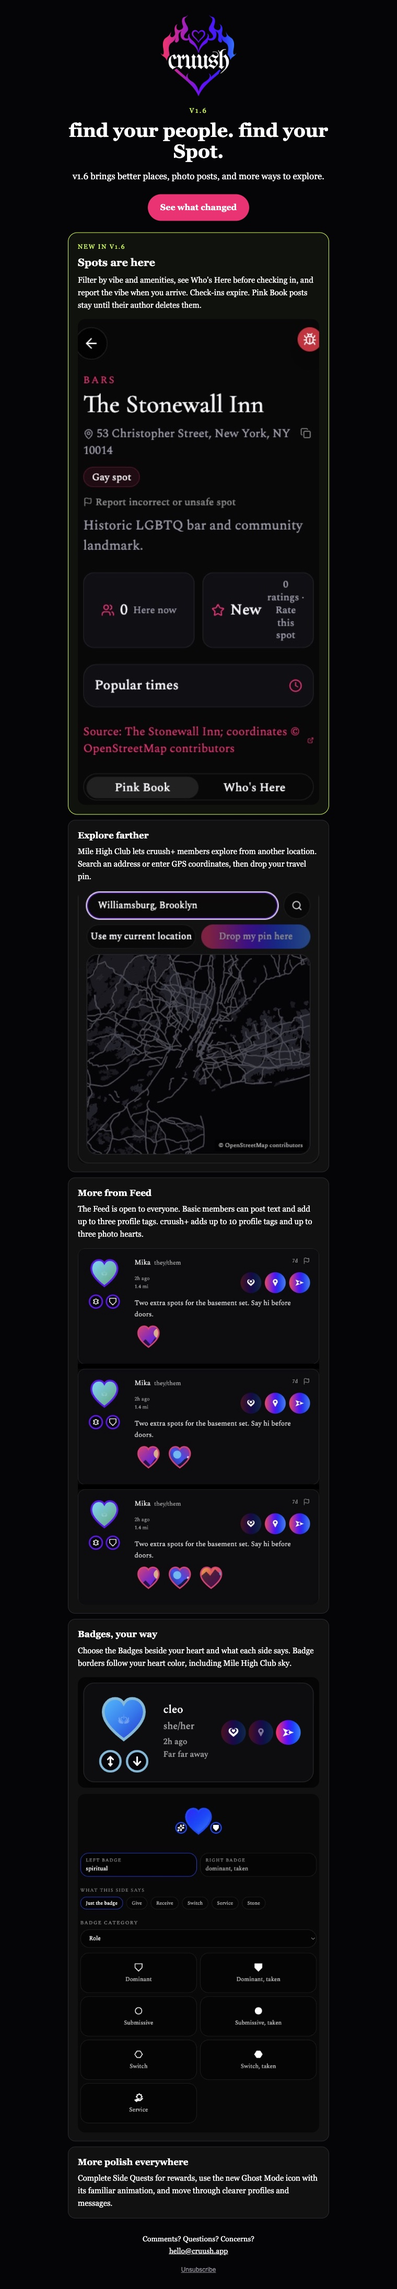
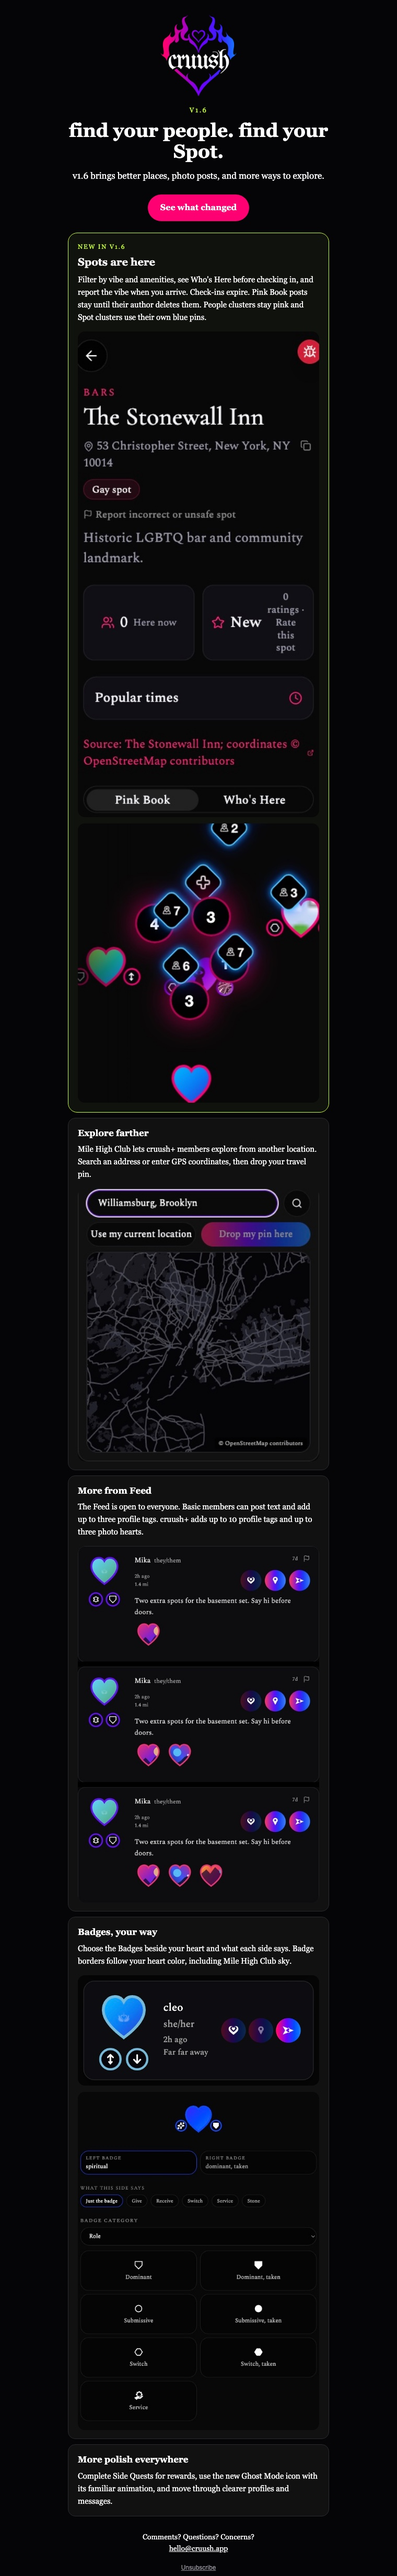
fix: clarify onboarding validation

Changed region(s): [[0.1816, 0.0, 0.8171, 1.0]]

diff --git a/src/app/components/ProfileOnboarding.tsx b/src/app/components/ProfileOnboarding.tsx
@@ -7,6 +7,8 @@ import { Input } from './ui/input';
 import { acceptCodeOfConduct, getAuthSession, type AuthSessionPayload } from '../lib/authApi';
 import { CODE_OF_CONDUCT_ITEMS } from '../lib/codeOfConduct';
 import { saveMyProfile, toDefaultKinkInterest, type ProfilePayload, uploadProfilePhoto } from '../lib/profileApi';
+import { ApiClientError } from '../lib/apiClient';
+import { SIGNAL_MAX_LENGTH } from '../lib/profileLimits';
 import {
   completeTwoFactorSetup,
   getRewardSummary,
@@ -117,6 +119,39 @@ function limitToThree(values: string[]) {
   }
 
   return nextValues.slice(-3);
+}
+
+const ONBOARDING_FIELD_LABELS: Record<string, string> = {
+  display_name: 'Display name',
+  photos: 'Profile photo',
+  bio: 'Bio',
+  signal: 'Signal',
+  pronouns: 'Pronouns',
+  identities: 'Identities',
+  crowds: 'Crowds',
+  looking_for: 'Looking for',
+  vibes: 'Vibes',
+};
+
+function getOnboardingSaveError(error: unknown) {
+  if (error instanceof ApiClientError && error.code === 'VALIDATION_ERROR') {
+    const fieldErrors = (error.details as { fieldErrors?: Record<string, unknown> } | null)?.fieldErrors;
+    const firstInvalidField = fieldErrors
+      ? Object.entries(fieldErrors).find(([, messages]) => Array.isArray(messages) && messages.length > 0)
+      : null;
+
+    if (firstInvalidField) {
+      const [field] = firstInvalidField;
+      if (field === 'signal') {
+        return `Signal must be ${SIGNAL_MAX_LENGTH} characters or fewer.`;
+      }
+
+      const label = ONBOARDING_FIELD_LABELS[field] ?? field.replaceAll('_', ' ');
+      return `${label.charAt(0).toUpperCase()}${label.slice(1)} needs attention before your profile can be saved.`;
+    }
+  }
+
+  return error instanceof Error ? error.message : 'Failed to save profile.';
 }
 
 type OnboardingProfileState = {
@@ -508,7 +543,7 @@ export default function ProfileOnboarding({
       onComplete(nextSession, destination);
     } catch (error) {
       console.error('Error saving profile:', error);
-      setSaveError(error instanceof Error ? error.message : 'Failed to save profile.');
+      setSaveError(getOnboardingSaveError(error));
     } finally {
       setSaving(false);
     }
@@ -704,12 +739,12 @@ export default function ProfileOnboarding({
                   <label className="mt-4 text-sm mb-2 block">Signal</label>
                   <Input
                     type="text"
-                    maxLength={180}
+                    maxLength={SIGNAL_MAX_LENGTH}
                     placeholder="A few words people see when they hover your heart pin"
                     value={profile.signal}
                     onChange={e => setProfileField('signal', e.target.value)}
                   />
-                  <p className="mt-2 text-xs text-white/50">Your signal appears when someone hovers over your heart pin on the map.</p>
+                  <p className="mt-2 text-xs text-white/50">Your signal appears when someone hovers over your heart pin on the map. {SIGNAL_MAX_LENGTH} characters max.</p>
                 </div>
               );
             case 'oath':

diff --git a/docs/previews/cruush-1.6-update-email.html b/docs/previews/cruush-1.6-update-email.html
@@ -48,9 +48,10 @@
                             <p style="margin:0 0 8px;color:#c8ff31;font-size:12px;line-height:1.4;letter-spacing:0.15em;text-transform:uppercase;">new in v1.6</p>
                             <p style="margin:0 0 8px;color:#ffffff;font-size:20px;line-height:1.35;font-weight:700;">Spots are here</p>
                             <p style="margin:0;color:#ffffff;font-size:15px;line-height:1.6;">
-                              Filter by vibe and amenities, see Who's Here before checking in, and report the vibe when you arrive. Check-ins expire. Pink Book posts stay until their author deletes them.
+                              Filter by vibe and amenities, see Who's Here before checking in, and report the vibe when you arrive. Check-ins expire. Pink Book posts stay until their author deletes them. People clusters stay pink and Spot clusters use their own blue pins.
                             </p>
                             <img alt="The Stonewall Inn Spot page with ratings, the Pink Book, Who's Here, vibes, and check-in controls" src="https://cruush.app/email/cruush-v1.6-spot.jpg" style="display:block;width:100%;max-width:464px;height:auto;margin-top:15px;border:0;border-radius:14px;background:#08080a;" width="464" />
+                            <img alt="Pink numbered people clusters beside blue diamond Spot clusters on the cruush map" src="https://cruush.app/email/cruush-v1.6-spot-clusters.jpg" style="display:block;width:100%;max-width:464px;height:auto;margin-top:12px;border:0;border-radius:14px;background:#08080a;" width="464" />
                           </td>
                         </tr>
                         <tr><td style="height:10px;font-size:0;line-height:0;">&nbsp;</td></tr>

diff --git a/src/main.tsx b/src/main.tsx
@@ -24,7 +24,7 @@ createRoot(document.getElementById("root")!).render(<App />);
 
 if ("serviceWorker" in navigator) {
   window.addEventListener("load", () => {
-    const APP_SHELL_REFRESH_ID = "v30";
+    const APP_SHELL_REFRESH_ID = "v31";
     const SERVICE_WORKER_SCRIPT_URL = `/sw.js?release=${APP_SHELL_REFRESH_ID}`;
     let hasController = Boolean(navigator.serviceWorker.controller);
     let reloadStarted = false;

diff --git a/index.html b/index.html
@@ -96,7 +96,7 @@
     }
   ]
 }</script>
-      <script src="/service-worker-recovery.js?release=v30"></script>
+      <script src="/service-worker-recovery.js?release=v31"></script>
       <script type="module" src="/src/main.tsx"></script>
     </body>
   </html>

diff --git a/public/sw.js b/public/sw.js
@@ -1,5 +1,5 @@
-const CACHE_NAME = 'cruush-app-shell-v30';
-const REFRESH_ID = 'v30';
+const CACHE_NAME = 'cruush-app-shell-v31';
+const REFRESH_ID = 'v31';
 
 async function deleteCachedShells() {
   const keys = await caches.keys();

diff --git a/public/service-worker-recovery.js b/public/service-worker-recovery.js
@@ -1,5 +1,5 @@
 (function () {
-  const APP_SHELL_REFRESH_ID = 'v30';
+  const APP_SHELL_REFRESH_ID = 'v31';
   const SERVICE_WORKER_SCRIPT_URL = `/sw.js?release=${APP_SHELL_REFRESH_ID}`;
 
   if (!('serviceWorker' in navigator)) {

diff --git a/FIXLOG.md b/FIXLOG.md
@@ -18,3 +18,4 @@
   tapping the owner pin set its pressed state and displayed the signal above the heart.
 - 2026-09-01: The current user's regular and Ghost Mode decoy previews now stay open after a mobile
   tap instead of closing on touch pointer-leave; tapping the same heart again closes the preview.
+- 2026-09-02: GitHub #142. Onboarding now matches the server's 35-character Signal limit and names the invalid field instead of only showing `Request validation failed`; skipping optional 2FA remains supported.
